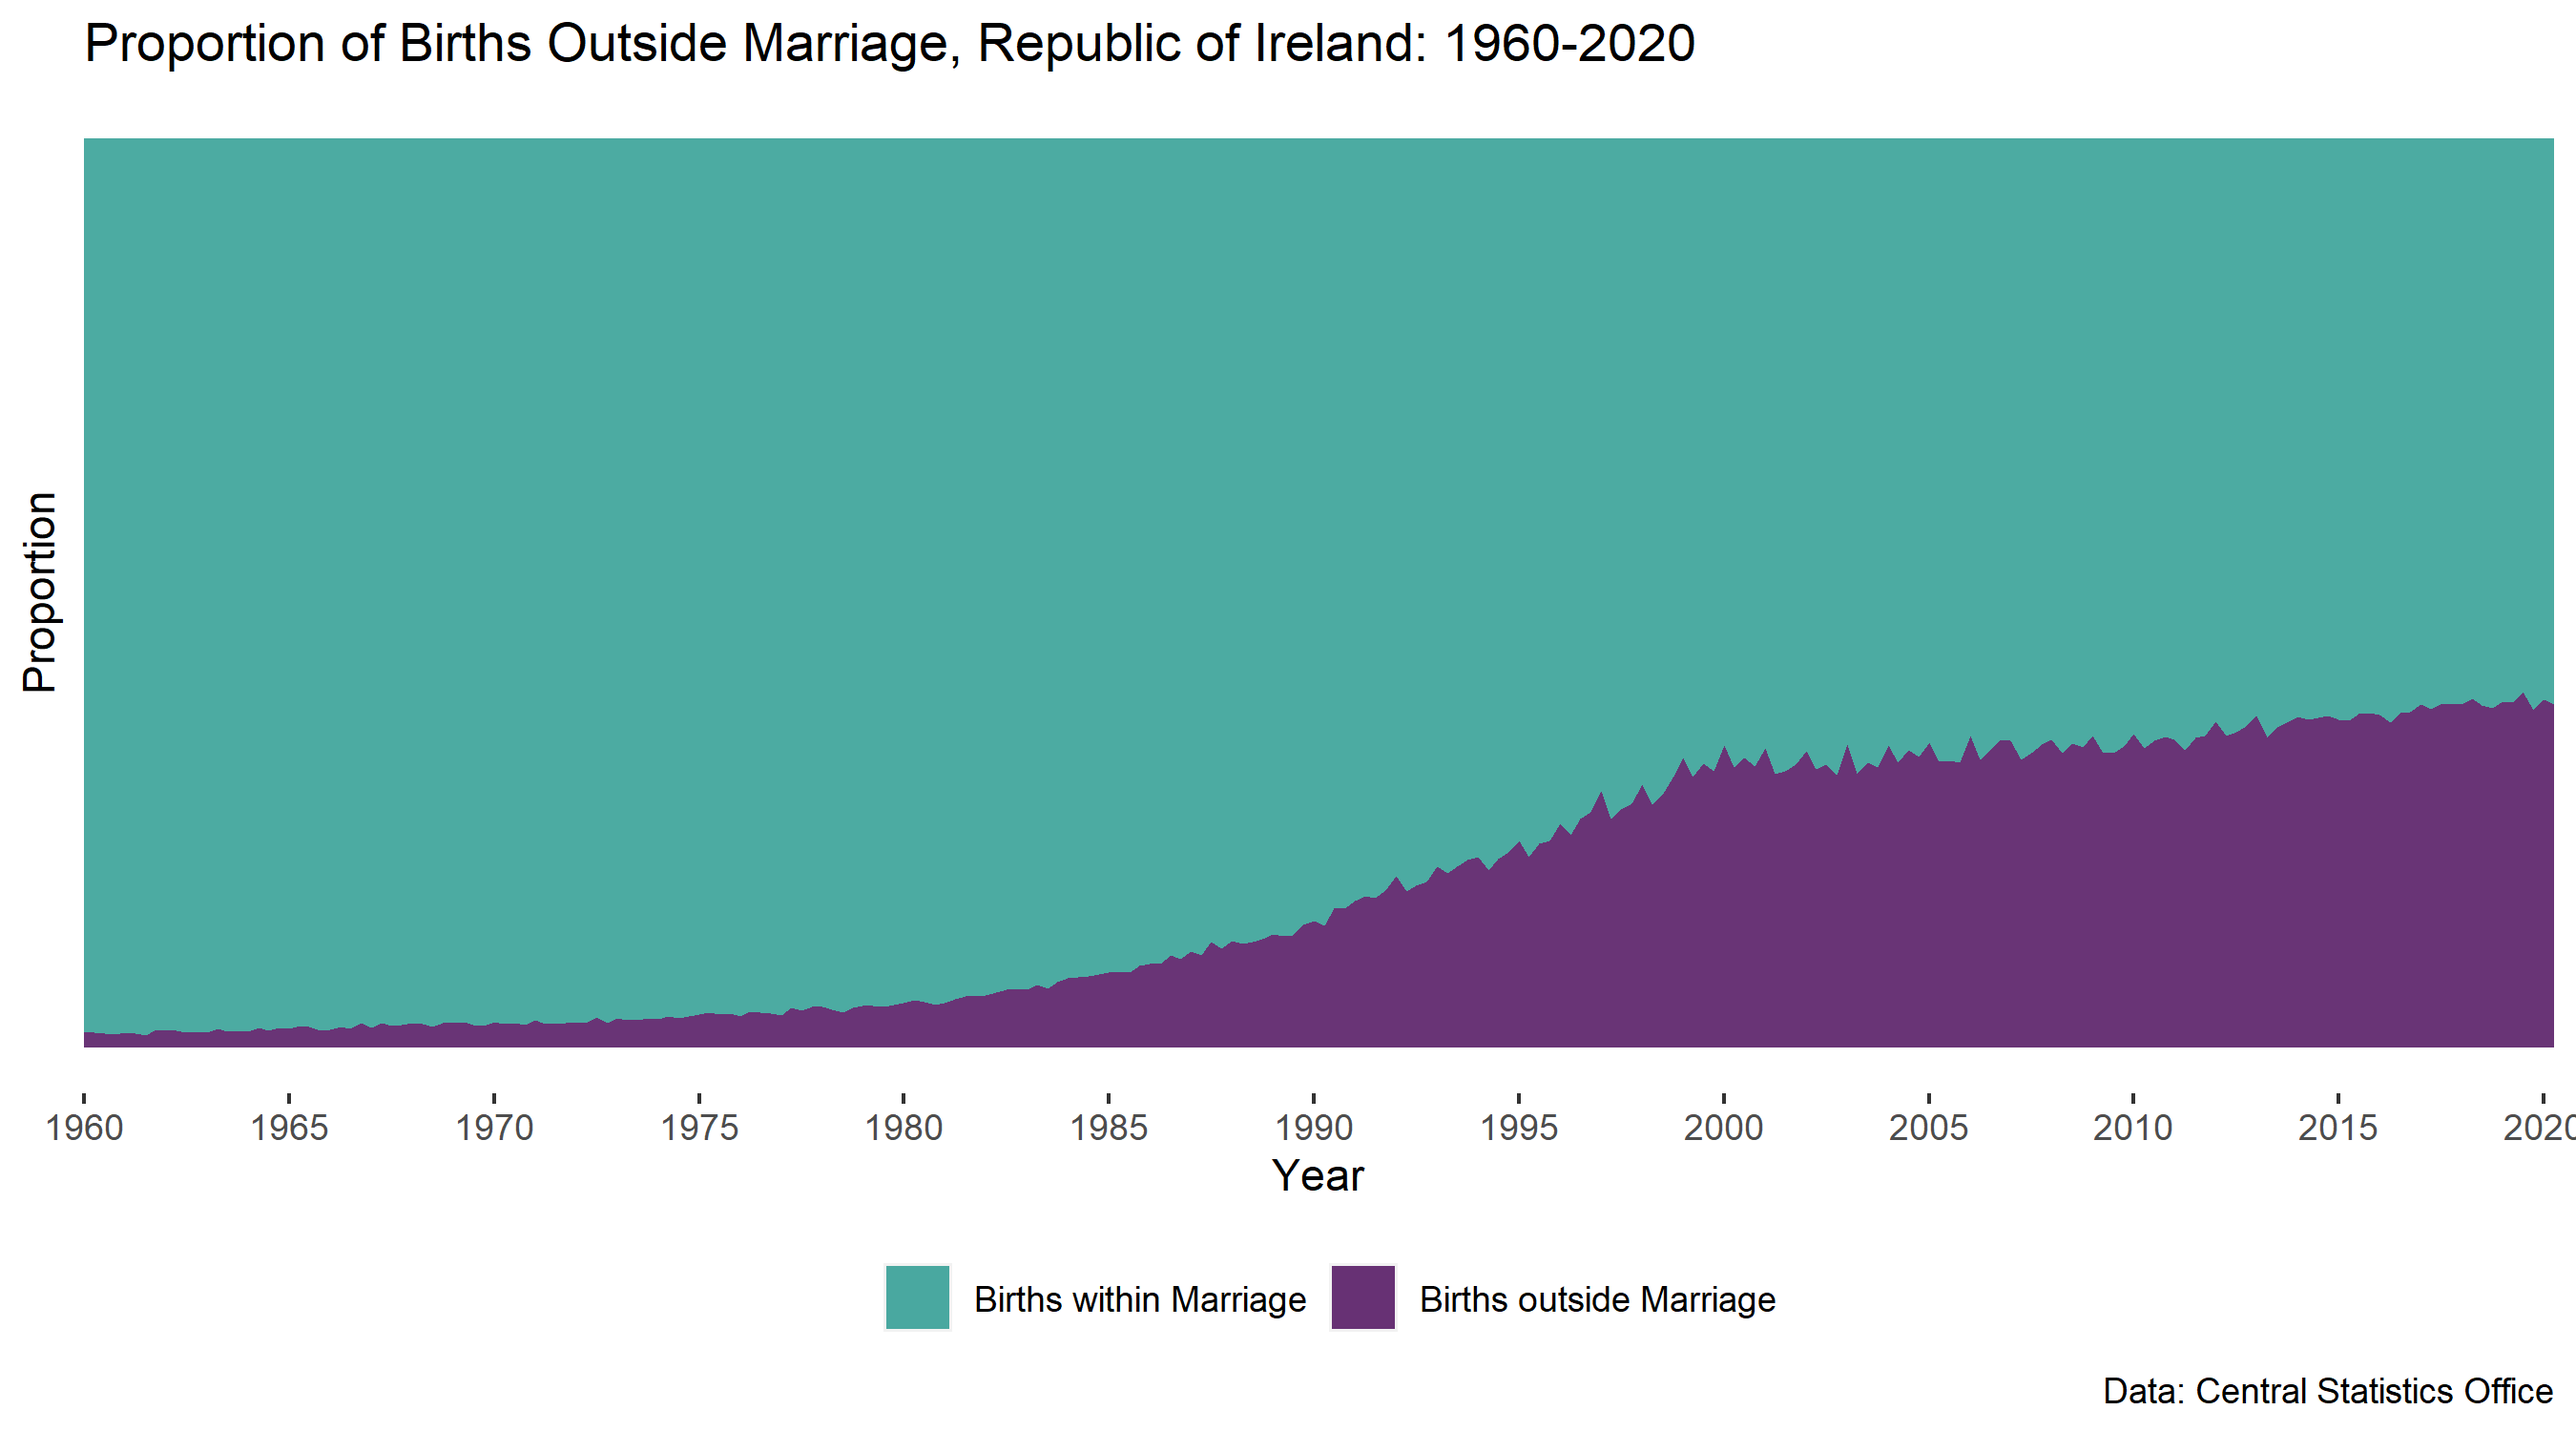
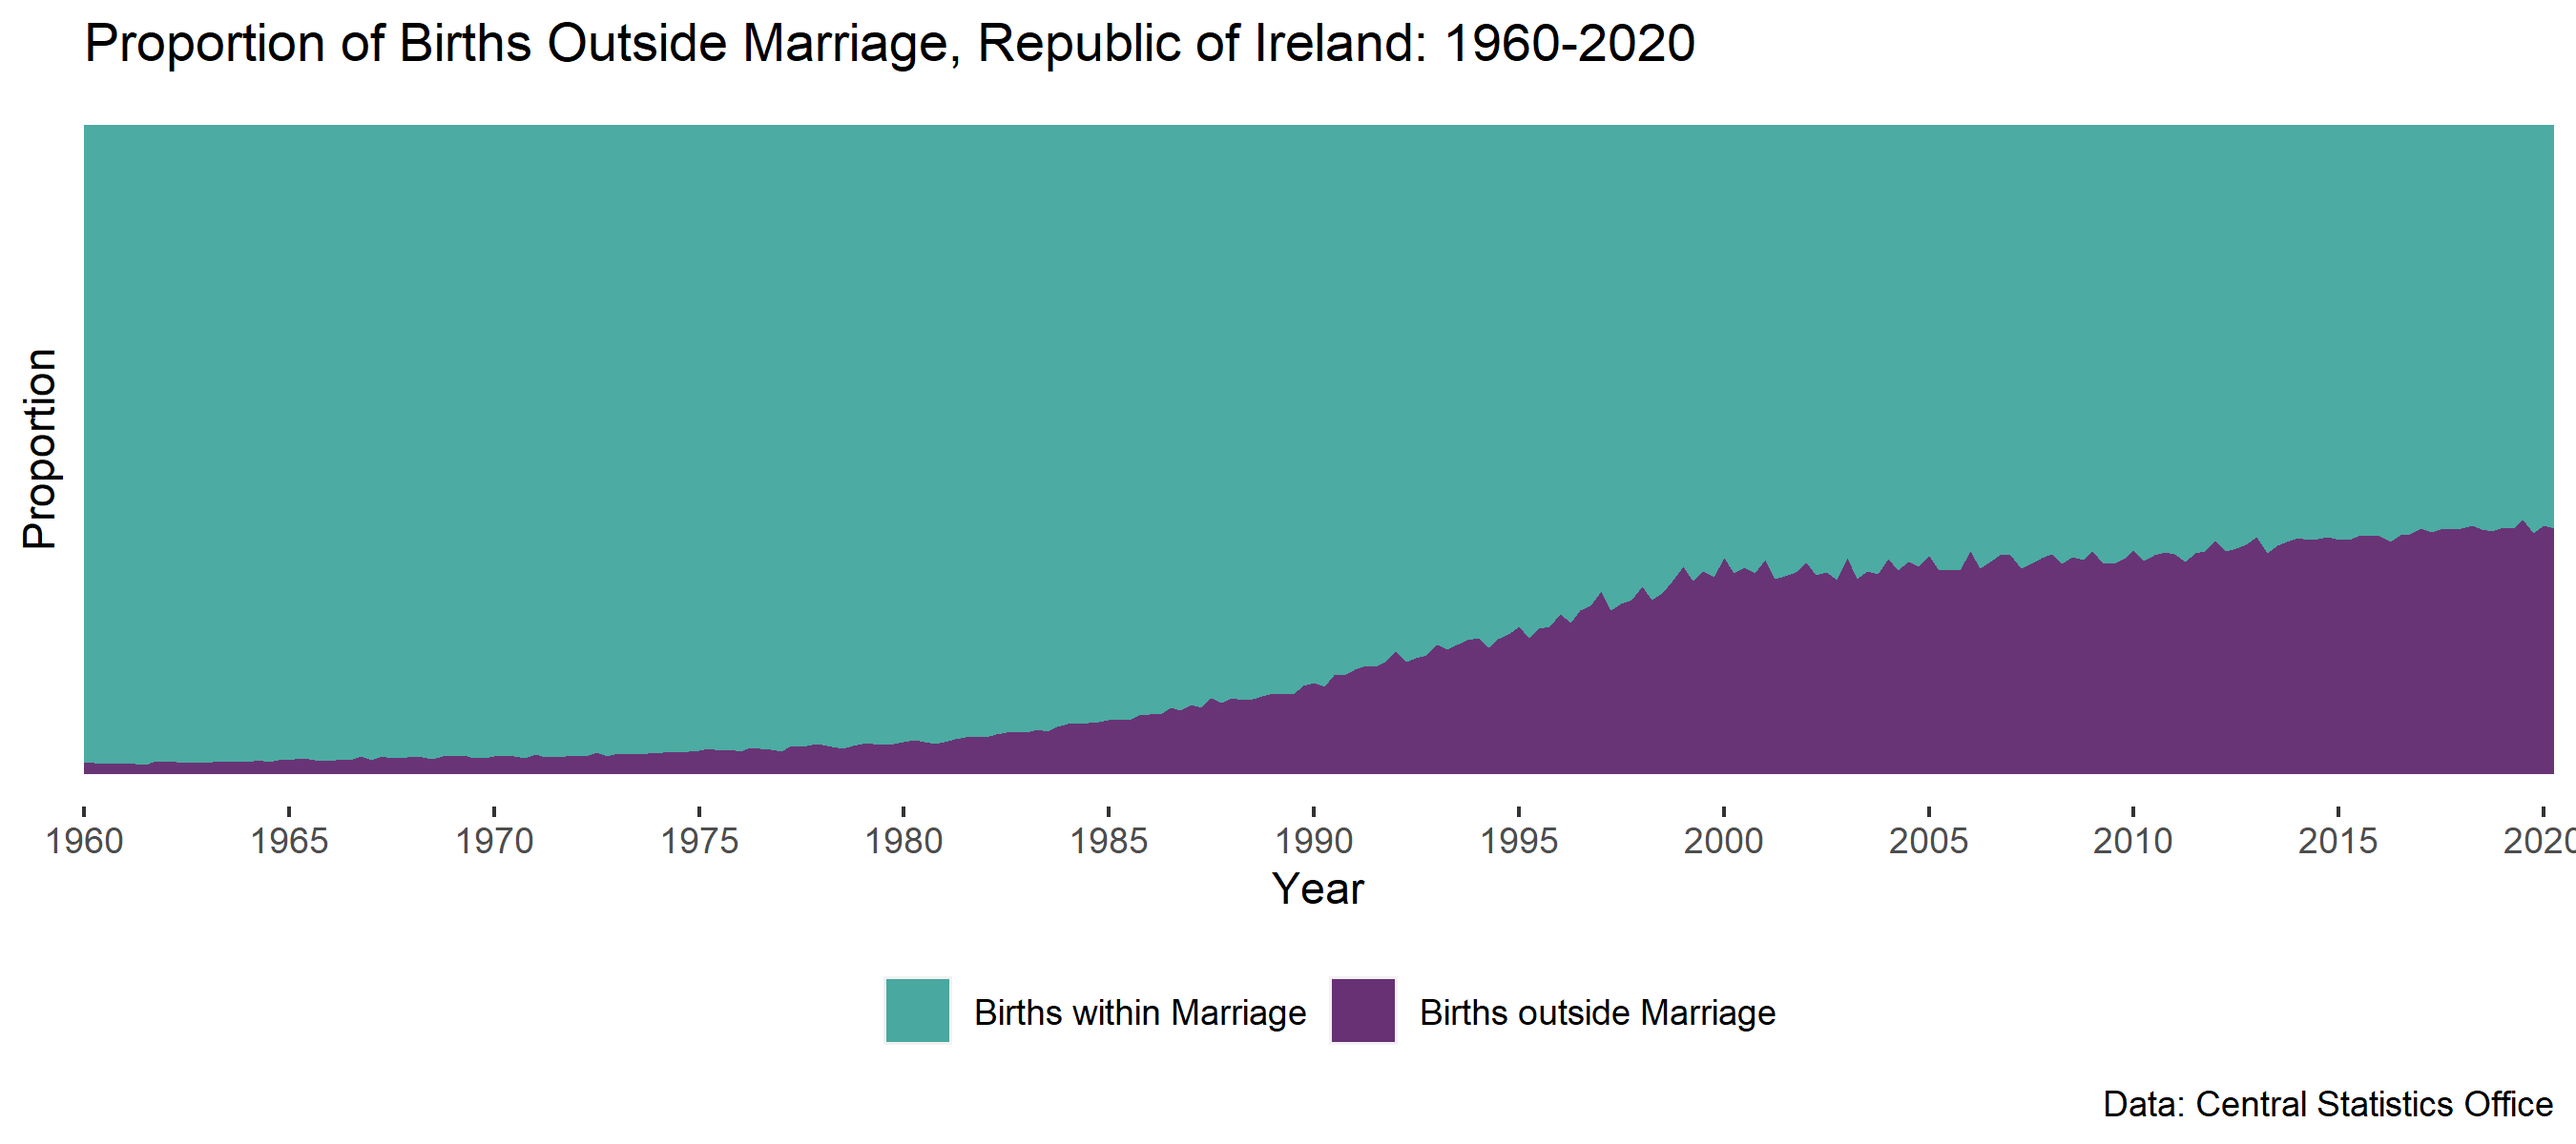
CSO births post

diff --git a/posts/2021-01-21-births-visualisation/index.html b/posts/2021-01-21-births-visualisation/index.html
@@ -68,7 +68,7 @@
 
   <article class="article">
     
-    <span class="article-duration">5 min read</span>
+    <span class="article-duration">7 min read</span>
     
 
     <h1 class="article-title">Baby Boom or Not?</h1>
@@ -82,22 +82,21 @@
 <script src="../../posts/2021-01-21-births-visualisation/index_files/header-attrs/header-attrs.js"></script>
 
 
-<p>For this</p>
-<div class="figure">
-<img src="images/births001.png" width="800" alt="" />
-<p class="caption">births_viz</p>
-</div>
+<p>For this analysis, data on births, deaths and marriages was sourced from the Central Statistics Office (CSO). The CSO provides data on these metrics since 1960, on quarterly intervals.</p>
+<p>There are a number a different ways for visualising time series data - the tile plot is a useful approach as it’s possible to not just visualise trends over time but to also track trends in seasonal data.</p>
+<p>In the following plot, each year is plotted separately with the quarters stacked vertically:</p>
+<p><img src="images/births001.png" width="800" /></p>
+<p>The tile plot is a really useful way to visualise activity over time. Github use this plot format for visualising contributions: <a href="&#39;https://docs.github.com/en/github/setting-up-and-managing-your-github-profile/viewing-contributions-on-your-profile#contributions-calendar&#39;">link</a></p>
 <p>In addition to visualising the births over time, we can also plot the death rate, using the same format:</p>
-<div class="figure">
-<img src="images/deaths001.png" width="800" alt="" />
-<p class="caption">deaths_viz</p>
-</div>
+<p><img src="images/deaths001.png" width="800" /></p>
 <p>Finally, the CSO dataset breaks down the number of births to those that occurred outside of marriage and the births that related to a married couple. Traditionally, having a child outside of marriage was frowned upon, however in recent years this has become much more common as the societal-norms have become more liberal.</p>
 <p>The data supports this trend; we can see that starting from a very low base this proportion grew relatively quickly during the 80’s and the 90’s before the growth rate declined in the 00’s. Overall the trend is increasing over time, with the rate of increase slowing in recent years.</p>
 <p><img src="images/marriage001.png" width="800" /></p>
+<p>So baby-boom or not ? Based on the plots, the overall trend is downwards - unlike the United States there has been no noticeable uplift in the birth rate since as 1960 such as the one that that was experienced in the United States following World War II.</p>
 <div id="r-code" class="section level2">
 <h2>R Code</h2>
-<p>The first step is to load in te required packages into R. We will be using <code>ggplot2</code> for the plotting as well as some of the packages from the Tidyverse. In order to source the CSO data, this can be done very simply with the <code>csodata</code> R package.</p>
+<p>The following code provides an overview of how the data was sourced from the CSO and plotted using <code>ggplot2</code>. The original idea for the plot came from the following post by Kieran Healy who produced similar plots for the United States and the United Kingdom: <a href="%22https://kieranhealy.org/blog/archives/2018/04/07/us-monthly-births/%22">link</a>.</p>
+<p>The <code>csodata</code> R package provides a very useful interface between the CSO data and R. Further information on the package can be found here: <a href="%22https://cran.r-project.org/web/packages/csodata/index.html%22">link</a></p>
 <pre class="r"><code># Importing Required libraries
 
 library(csodata) # library to get data from the CSO
@@ -107,11 +106,12 @@ library(tidyverse)
 library(magrittr)
 library(lubridate)</code></pre>
 <p>The CSO dataset we are interested in is <code>VSQ01</code>. Further information on the dataset can be found here: <a href="&#39;https://data.gov.ie/dataset/1e28883d-b671-415b-9228-e820535dda39&#39;">link</a></p>
-<pre class="r"><code>data &lt;- cso_get_data(&#39;VSQ01&#39;)</code></pre>
-<pre><code>## Loaded cached data</code></pre>
-<pre class="r"><code># Previewing the data
+<pre class="r"><code>data &lt;- cso_get_data(&#39;VSQ01&#39;, cache=FALSE)
+
+# Previewing the data
 dim(data)</code></pre>
 <pre><code>## [1]  15 243</code></pre>
+<p>The dataset is <em>wide</em> - the data is organised in columns as opposed to rows. In order to transform the data it’s necessary to transpose the data and extract the metrics we require for plotting.</p>
 <pre class="r"><code># Reformatting the data for plotting
 data.transpose &lt;- t(data[c(1,4,7,10,13), ])
 labels &lt;- rownames(data.transpose)
@@ -120,6 +120,8 @@ data.transpose &lt;- cbind(labels, data.transpose)
 
 # Removing the first two rows as these contain label data
 data.transpose &lt;- data.transpose[-c(1:2),]</code></pre>
+<p>Once the data is imported, it’s also necessary to augment the dataset to replace missing information. There is no datapoint for 2017-Q4.</p>
+<p>There are a number of different approaches for inserting the missing dataset; given there is only one datapoint missing, the 2017-Q4 values are assumed to be equal to the 2017-Q3 values.</p>
 <pre class="r"><code># Inserting 2017Q4 data
 # For now, this is set equal to 2017Q2 data
 q4_2017 &lt;- as.list(data.transpose[data.transpose[,1]==&#39;2017Q3&#39;,])
@@ -128,6 +130,7 @@ q4_2017$labels &lt;- &quot;2017Q4&quot;
 # merging data
 data.transpose &lt;- rbind(data.transpose, q4_2017)
 rownames(data.transpose) &lt;- NULL</code></pre>
+<p>Once the dataset is complete, we convert the data to a dataframe and rename the columns.</p>
 <pre class="r"><code>data_final &lt;- as.data.frame(data.transpose)
 
 names(data_final)[1] &lt;- &quot;period&quot;
@@ -139,6 +142,7 @@ names(data_final)[6] &lt;- &quot;deaths&quot;
 
 # Replacing the na values with the next value
 data_final &lt;- na.locf(data_final, na.rm=FALSE, fromLast = TRUE)</code></pre>
+<p>Finally we augment the dataset with additional metrics including the birth rate per 1,000 and the death rate.</p>
 <pre class="r"><code>data_final$year &lt;- str_sub(data_final$period, 1, 4)
 data_final$quarter &lt;- as.numeric(str_sub(data_final$period, 6)) * 3
 data_final$date &lt;- make_date(year=data_final$year, month=data_final$quarter-2, day=1)
@@ -218,6 +222,7 @@ p &lt;- tile_plot(data = data_final,
 # Viewing the plot
 p</code></pre>
 <p><img src="../../posts/2021-01-21-births-visualisation/index_files/figure-html/unnamed-chunk-10-1.png" width="960" /></p>
+<p>In addition to viewing the births, we can also plot the deaths:</p>
 <pre class="r"><code>p &lt;- tile_plot(data = data_final,
               variable = data_final$death_rate,
               viridis_color = &quot;viridis&quot;,
@@ -269,11 +274,18 @@ p &lt;- p + theme(panel.background = element_blank(),
 
 
 # Saving the plot file as a png
-ggsave(&quot;marriage001.png&quot;, p, width = 9, height = 5)
+ggsave(&quot;marriage001.png&quot;, p, width = 9, height = 4)
 
 # Viewing the plot
 p</code></pre>
 <p><img src="../../posts/2021-01-21-births-visualisation/index_files/figure-html/unnamed-chunk-12-1.png" width="864" /></p>
+</div>
+<div id="references" class="section level2">
+<h2>References</h2>
+<ul>
+<li><a href="&#39;https://cran.r-project.org/web/packages/csodata/index.html&#39;">CSO R Package on CRAN</a></li>
+<li><a href="&#39;https://kieranhealy.org/blog/archives/2018/04/07/us-monthly-births/&#39;">Similar plots by Kieran Healy for US data</a></li>
+</ul>
 </div>
 
     </div>
